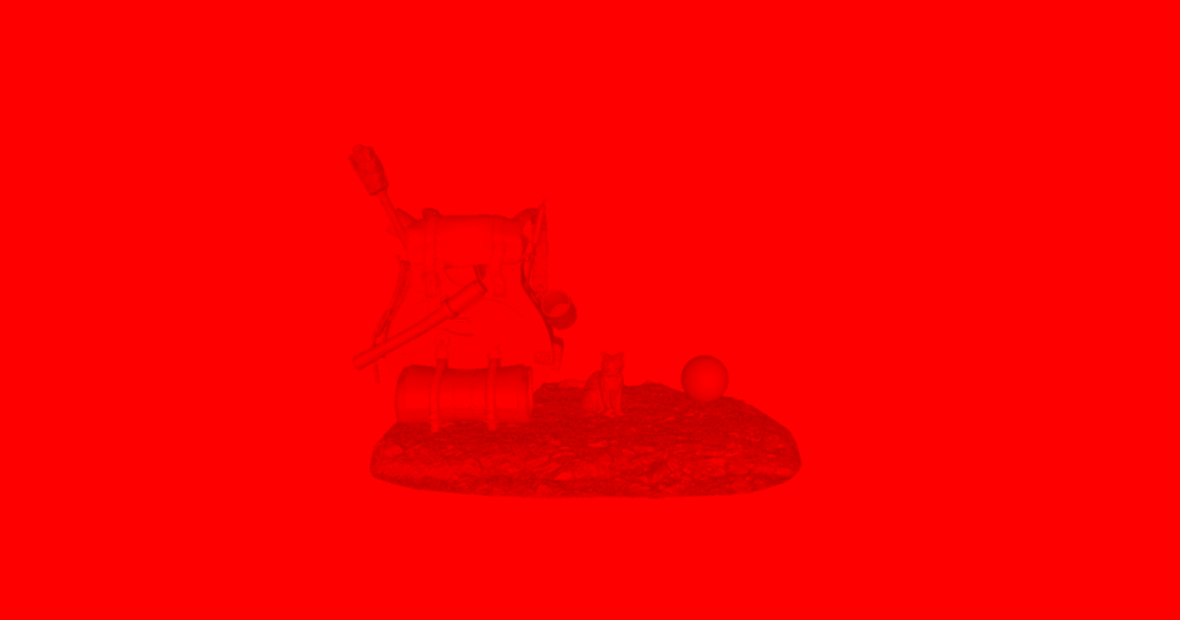
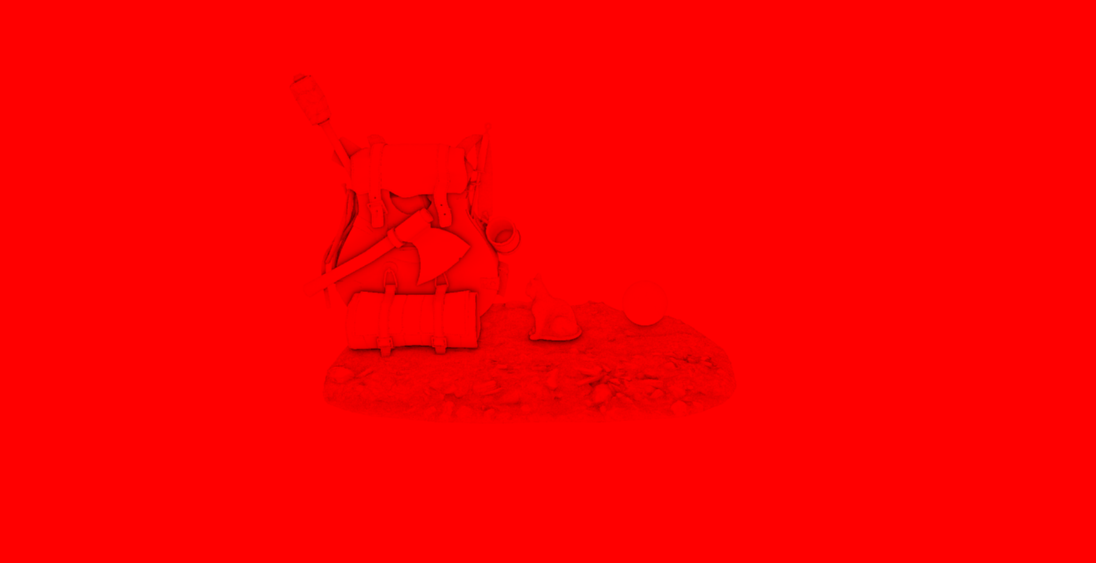
Fixed SSAO image

Changed region(s): [[0.2792, 0.2416, 0.6825, 0.8153], [0.4343, 0.2416, 0.4653, 0.2718]]

diff --git a/src/content/blog/opengl-scene.md b/src/content/blog/opengl-scene.md
@@ -540,10 +540,10 @@ I'm really proud of what I've done.
 Computer graphics is the domain where I want to work and this module was the one I waited for the most.
 I think I put in a lot of work, and the final result shows it.
 
-That being said, there are still some things I could improve. Such as:
+That being said, there are still some things I could improve.
+Such as:
 
 - Structure of the code (especially renderer.cpp)
-- Fix the SSAO (but don't tell my teacher it's not correct)
 - Make textures use the mipmaps
 - Add Frustum Culling
 - Add a bit of multi-threading somewhere
